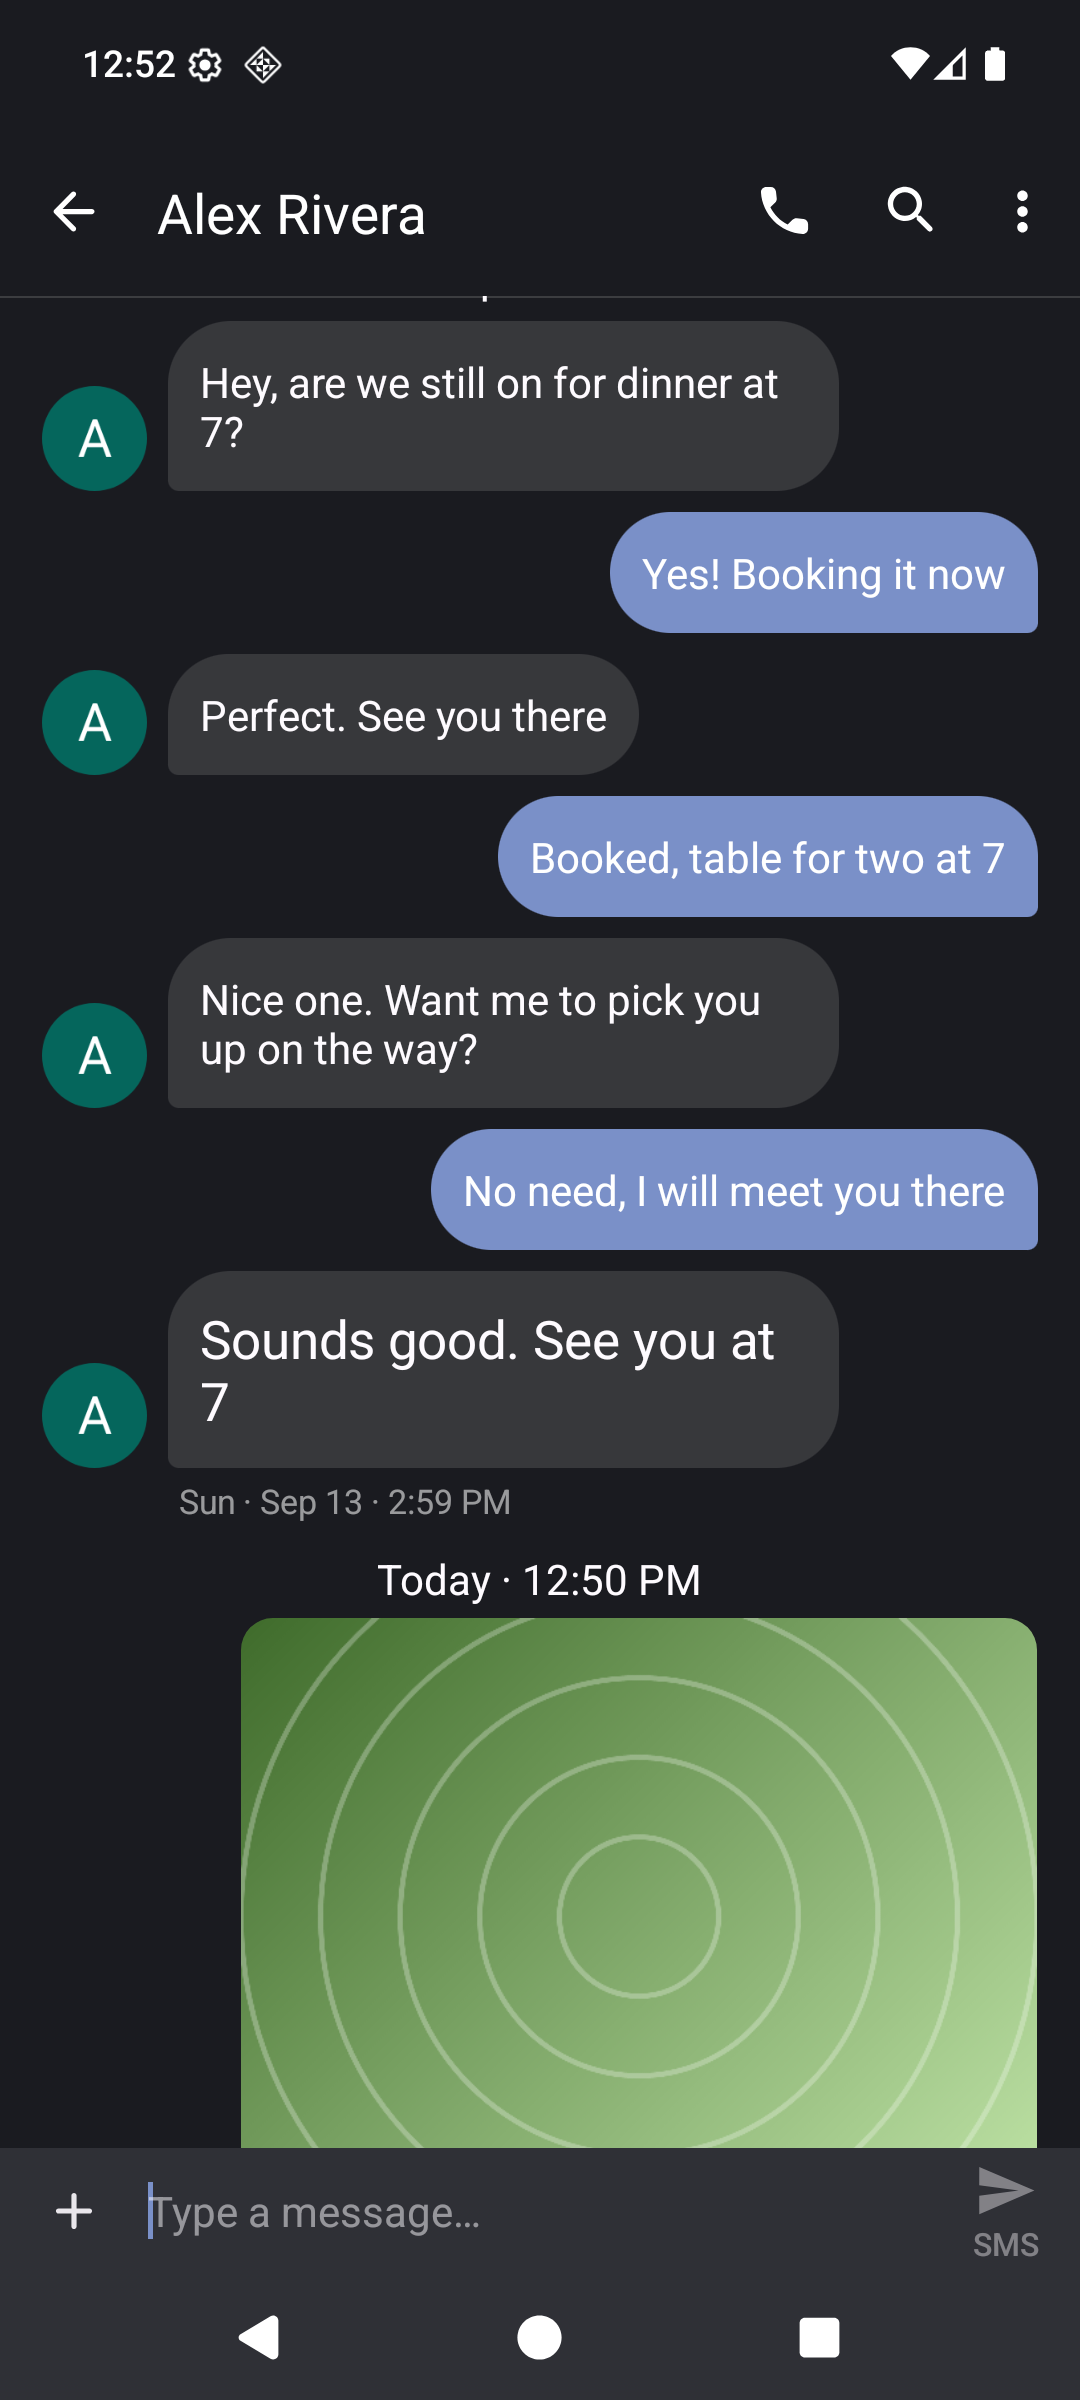
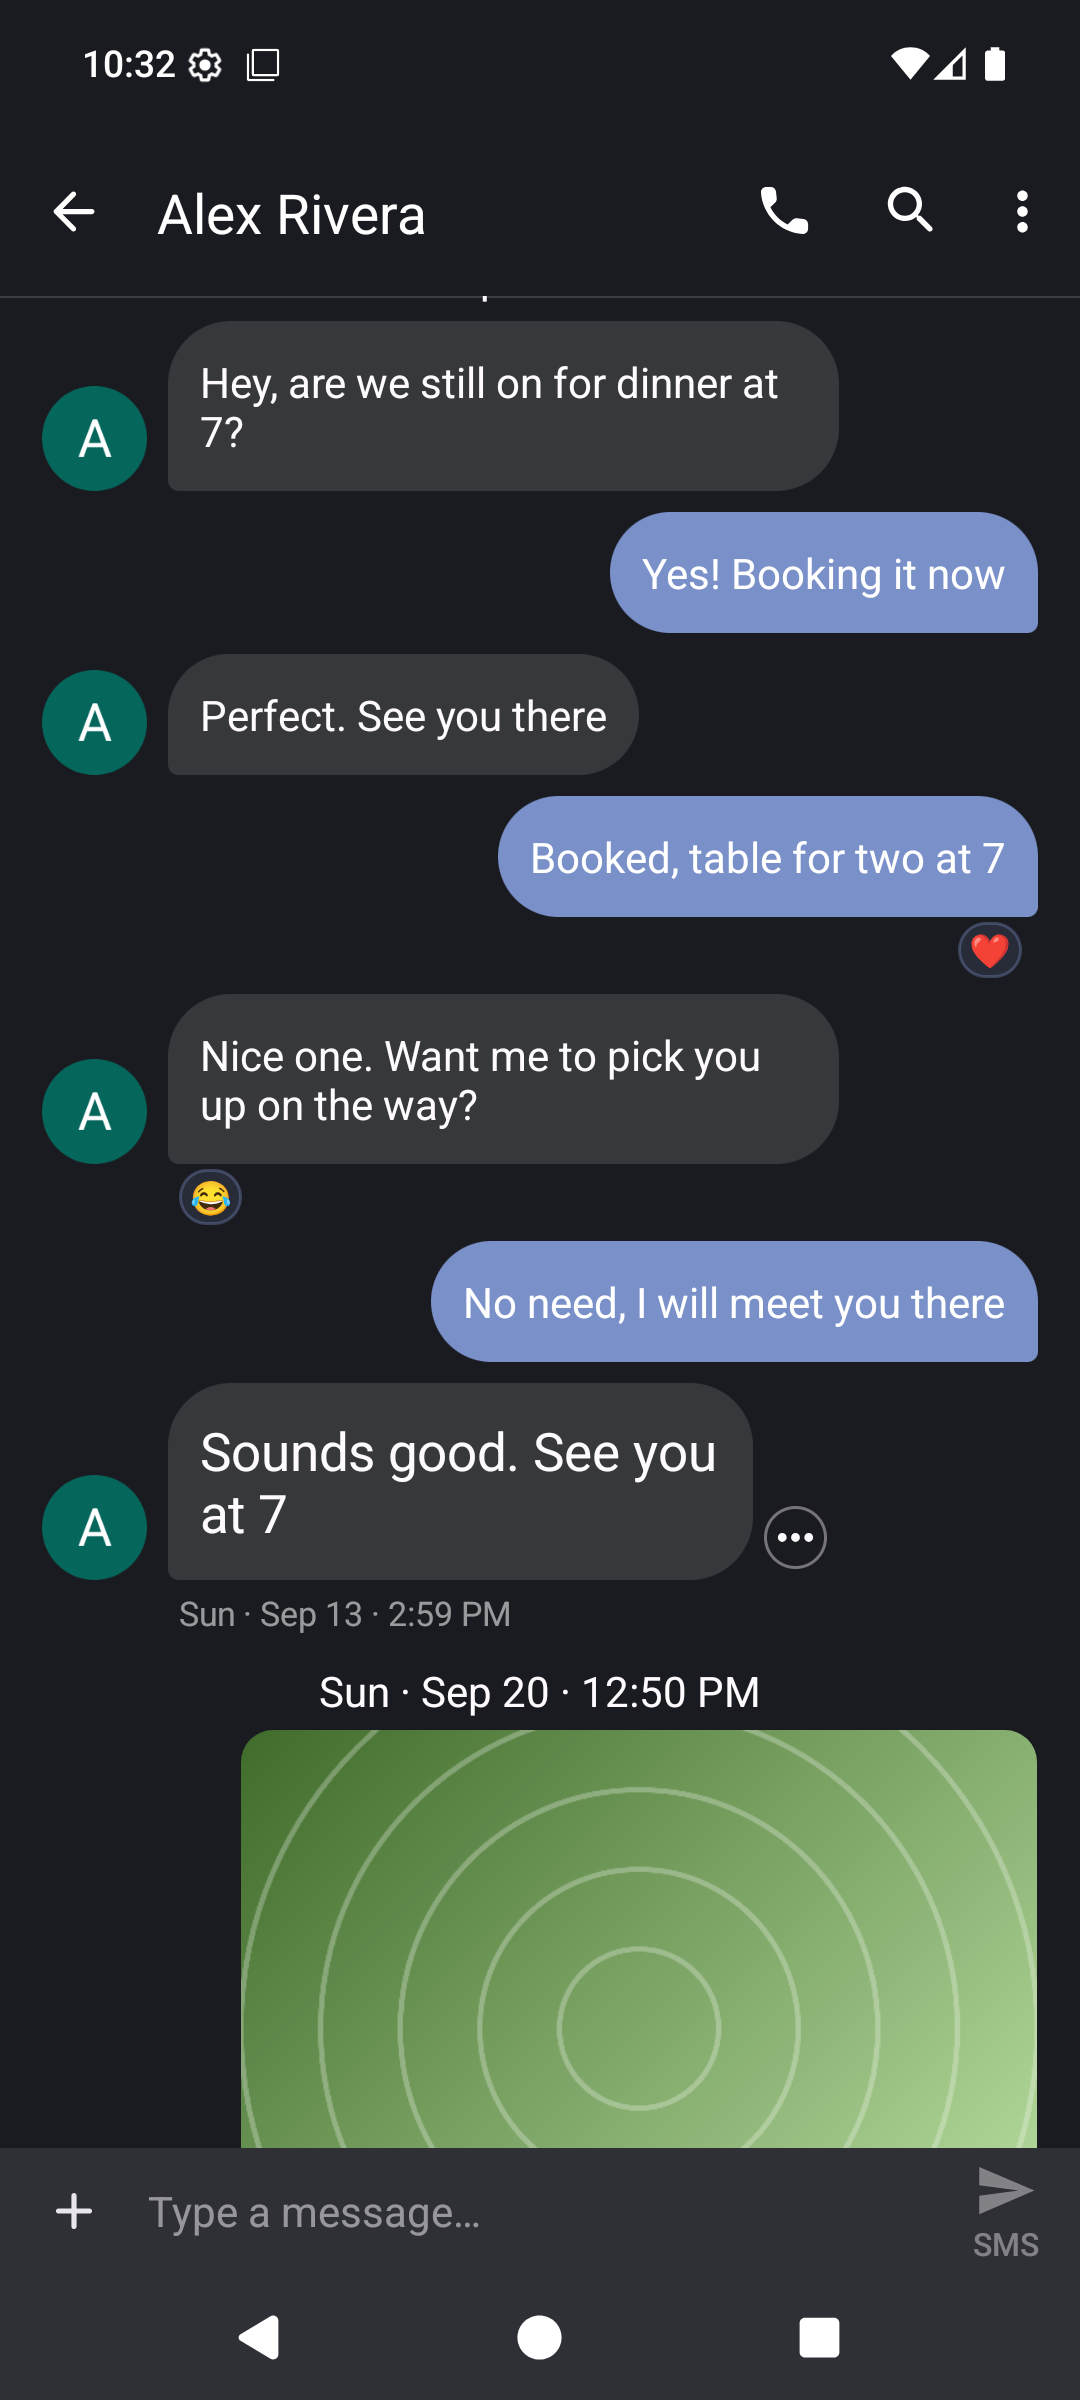
Retake the open message screenshot with its ⋯ button
The old one predated the button, so it showed an open message without
the way to its menu. Taken on the same emulator and conversation as
before, so it matches the other screenshots.

diff --git a/README.md b/README.md
@@ -117,7 +117,7 @@ options rather than selecting.
 
 Messages that are nothing but emoji are drawn large, the way every other messaging app draws them.
 
-<img src="docs/screenshots/reading-mode.png" width="320" alt="A message opened to show its timestamp">
+<img src="docs/screenshots/reading-mode.png" width="320" alt="A message opened to show its timestamp, with the ⋯ menu button beside it">
 
 ## Pictures stay in the app
 
